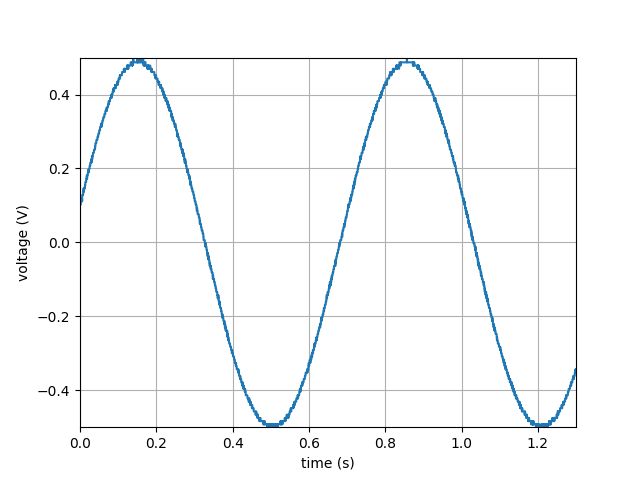
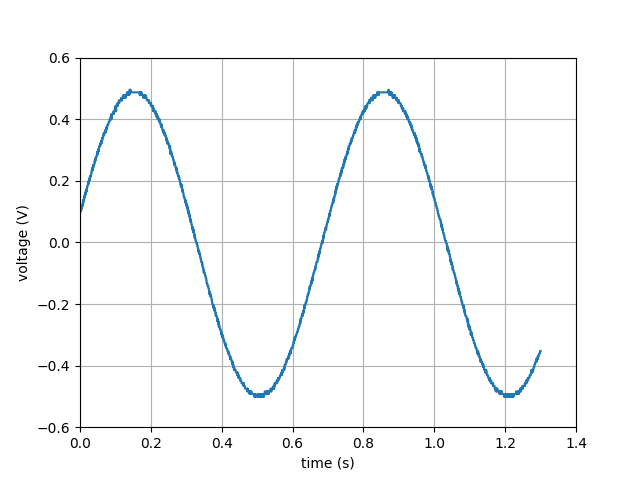
update

diff --git a/example.py b/example.py
@@ -27,6 +27,6 @@ ax.plot(10**-9*dt*np.array(range(n)),dataA/32767)
 ax.set_xlabel("time (s)")
 ax.set_ylabel("voltage (V)")
 plt.grid()
-ax.set_xlim(0.0,1.3)
-ax.set_ylim(-0.5,0.5)
+ax.set_xlim(0.0,1.4)
+ax.set_ylim(-0.6,0.6)
 plt.savefig("example.png")
